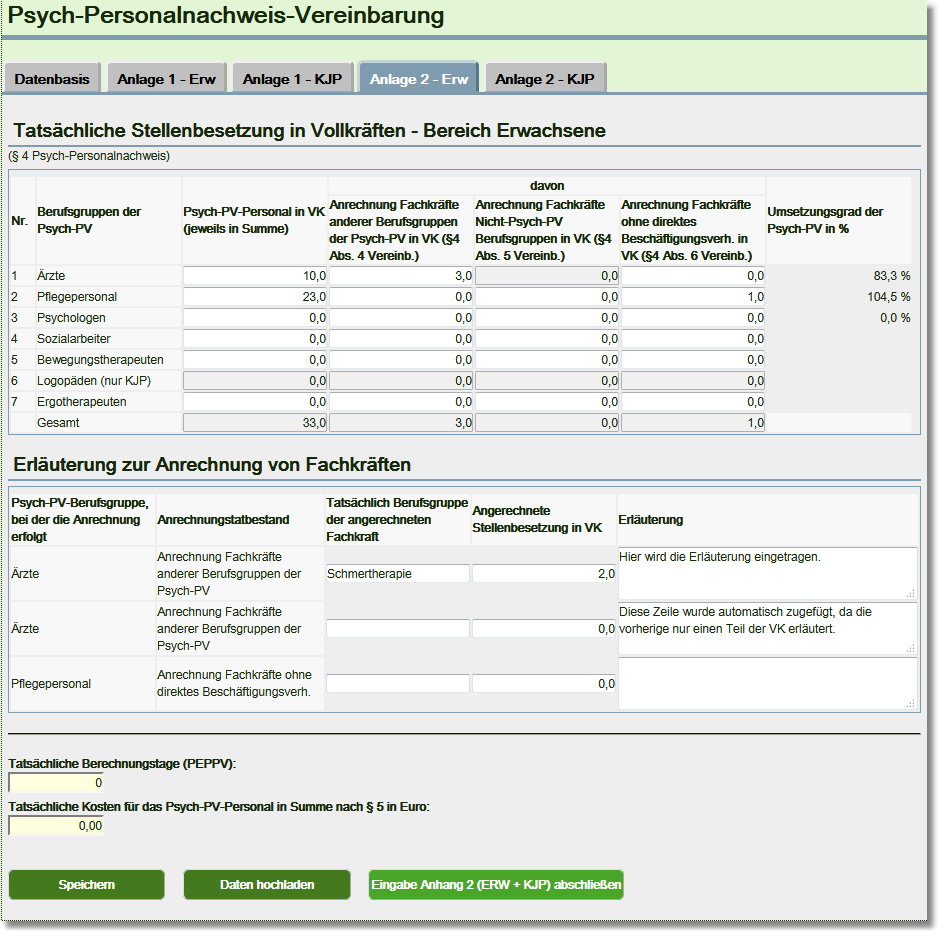
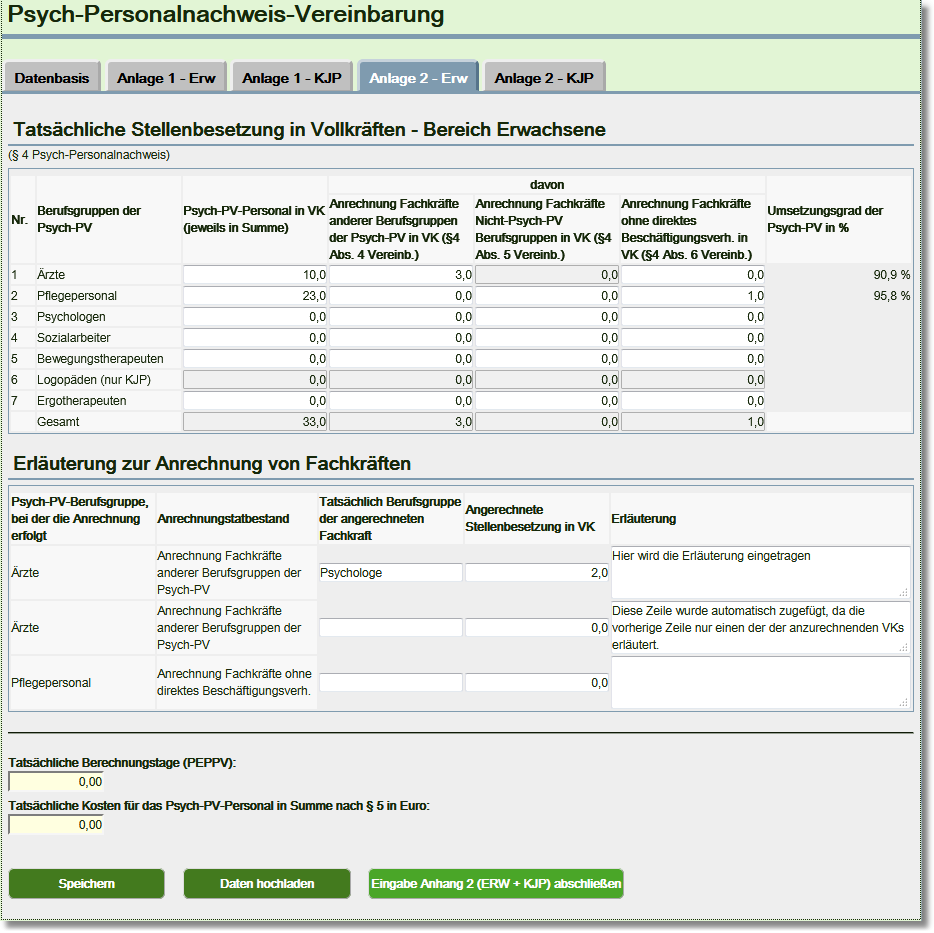
psychStaff refinement

diff --git a/DataPortal/src/main/java/org/inek/dataportal/feature/psychstaff/pdf/PdfBuilder.java b/DataPortal/src/main/java/org/inek/dataportal/feature/psychstaff/pdf/PdfBuilder.java
@@ -90,7 +90,7 @@ public class PdfBuilder extends PdfPageEventHelper implements Serializable {
             "Anrechnung Fachkräfte anderer Berufsgruppen der Psych-PV in VK (§4 Abs. 4 Vereinb.) ",
             "Anrechnung Fachkräfte Nicht-Psych-PV Berufsgruppen in VK (§4 Abs. 5 Vereinb.) ",
             "Anrechnung Fachkräfte ohne direktes Beschäftigungsverh. in VK (§4 Abs. 6 Vereinb.)",
-            "\nPsych-PV-Personal in VK (jeweils in Summe) ");
+            "\nUmsetzungsgrad der Psych-PV in %");
     private final List<String> header2A2 = Arrays.asList("", "1", "2", "3", "4", "5", "6");
     private final List<String> headerExp = Arrays.asList("Psych-PV-Berufsgruppe, bei der die Anrechnung erfolgt",
             "Anrechnungs-\ntatbestand",
@@ -132,7 +132,7 @@ public class PdfBuilder extends PdfPageEventHelper implements Serializable {
         createMetadata(document);
 
         if ("Anlage 1".equalsIgnoreCase(_editPsyStaff.getActiveTopic().getTitle().substring(0, 8))) {
-            createPageForAnlage1(document, writer);
+            createPageForApx1(document, writer);
         } else {
             createPageForAnlage2(document, writer);
         }
@@ -161,14 +161,18 @@ public class PdfBuilder extends PdfPageEventHelper implements Serializable {
     }
     //</editor-fold>
 
-    //<editor-fold defaultstate="collapsed" desc="createPageForAnlage1">
-    public void createPageForAnlage1(Document document, PdfWriter writer) throws DocumentException, IOException, NoSuchAlgorithmException {
+    //<editor-fold defaultstate="collapsed" desc="createPageForApx1">
+    public void createPageForApx1(Document document, PdfWriter writer) throws DocumentException, IOException, NoSuchAlgorithmException {
+        addLogo(document,
+                "Vereinbarte Stellenbesetzung in Vollkräften \nBereich Erwachsene",
+                anlage1,
+                _editPsyStaff.getStaffProof().getSignatureAgreement());
+        
         if (_editPsyStaff.getStaffProof().isForAdults()) {
-            createPageForAdultAn1(document);
-            System.out.println("writer.getPageNumber():----" + document.getPageNumber());
+            createPageForApx1(document, PsychType.Adults);
         }
         if (_editPsyStaff.getStaffProof().isForKids()) {
-            createPageForKidsAn1(document);
+            createPageForApx1(document, PsychType.Kids);
         }
         addNote(document, infoText1, 50, 0);
         addNote(document, infoText2, 0, 20);
@@ -206,20 +210,24 @@ public class PdfBuilder extends PdfPageEventHelper implements Serializable {
     //</editor-fold>
 
     //<editor-fold defaultstate="collapsed" desc="createPageForKidsAn1">
-    private void createPageForKidsAn1(Document document) throws DocumentException, NoSuchAlgorithmException, IOException {
+    private void createPageForApx1(Document document, PsychType psychType) throws DocumentException, NoSuchAlgorithmException, IOException {
+        String header = psychType == PsychType.Adults 
+                ? "Bereich Erwachsene"
+                : "Bereich Kinder und Jugendliche";
+        int agreedDays = psychType == PsychType.Adults 
+                ? _editPsyStaff.getStaffProof().getAdultsAgreedDays()
+                : _editPsyStaff.getStaffProof().getKidsAgreedDays();
+        document.add(new Paragraph(header, FONT_TITLE));
+        PdfPTable pdfTable = new PdfPTable(6);
+        pdfTable.setWidthPercentage(100);
+        pdfTable.setWidths(new int[]{3, 1, 3, 3, 3, 3});
+        pdfTable.getDefaultCell().setBackgroundColor(BaseColor.LIGHT_GRAY);
+        loadDataForApx1(pdfTable, psychType);
+        pdfTable.setSpacingBefore(10);
+        pdfTable.setSpacingAfter(10);
+        document.add(pdfTable);
 
-        document.add(new Paragraph("Bereich Kinder und Jugendliche", FONT_TITLE));
-        PdfPTable tb_JK = new PdfPTable(6);
-        tb_JK.setWidthPercentage(100);
-        tb_JK.setWidths(new int[]{3, 1, 3, 3, 3, 3});
-        tb_JK.getDefaultCell().setBackgroundColor(BaseColor.LIGHT_GRAY);
-        loadDataForAnlage1JK(tb_JK);
-        tb_JK.setSpacingBefore(10);
-        tb_JK.setSpacingAfter(10);
-        document.add(tb_JK);
-
-        Paragraph p = new Paragraph("Vereinbarte Berechnungstage: "
-                + String.valueOf(_editPsyStaff.getStaffProof().getKidsAgreedDays()), SMALLBOLD);
+        Paragraph p = new Paragraph("Vereinbarte Berechnungstage: " + agreedDays, SMALLBOLD);
         p.setSpacingAfter(30);
         document.add(p);
     }
@@ -245,7 +253,7 @@ public class PdfBuilder extends PdfPageEventHelper implements Serializable {
         tb_exp.setWidths(new int[]{4, 4, 3, 3, 6});
         tb_exp.getDefaultCell().setBackgroundColor(BaseColor.LIGHT_GRAY);
 
-        loadDataForAnlage2(tb_JK);
+        loadDataForAnlage2(tb_JK, PsychType.Kids);
         tb_JK.setSpacingBefore(10);
         tb_JK.setSpacingAfter(10);
         document.add(tb_JK);
@@ -263,37 +271,6 @@ public class PdfBuilder extends PdfPageEventHelper implements Serializable {
                 + String.valueOf(_editPsyStaff.getStaffProof().getKidsEffectiveCosts()), SMALLBOLD);
         p.setSpacingAfter(10);
         document.add(p);
-    }
-    //</editor-fold>
-
-    //<editor-fold defaultstate="collapsed" desc="createPageForAdultAn1">
-    private void createPageForAdultAn1(Document document) throws DocumentException, IOException, NoSuchAlgorithmException {
-
-        addLogo(document,
-                "Vereinbarte Stellenbesetzung in Vollkräften \nBereich Erwachsene",
-                anlage1,
-                _editPsyStaff.getStaffProof().getSignatureAgreement());
-        
-        document.add(new Paragraph("Bereich Erwachsene", FONT_TITLE));
-        PdfPTable tb = new PdfPTable(6);
-        tb.setWidthPercentage(100);
-        tb.setWidths(new int[]{3, 1, 3, 3, 3, 3});
-
-        tb.getDefaultCell().setBackgroundColor(BaseColor.LIGHT_GRAY);
-        loadDataForAnlage1Ad(tb);
-        tb.setSpacingBefore(10);
-        tb.setSpacingAfter(10);
-        document.add(tb);
-
-        Paragraph p = new Paragraph("Vereinbarte Berechnungstage: "
-                + String.valueOf(_editPsyStaff.getStaffProof().getAdultsAgreedDays()), SMALLBOLD);
-        p.setSpacingAfter(30);
-        document.add(p);
-
-//        addNote(document, infoText1, 0);
-//        addNote(document, infoText2, 20);
-//        addInfoText(document, infoText3, 30);
-//        addSignaturArea(document);
     }
     //</editor-fold>
 
@@ -315,7 +292,7 @@ public class PdfBuilder extends PdfPageEventHelper implements Serializable {
         tb_exp.setWidthPercentage(100);
         tb_exp.getDefaultCell().setBackgroundColor(BaseColor.LIGHT_GRAY);
 
-        loadDataForAnlage2(tb);
+        loadDataForAnlage2(tb, PsychType.Adults);
         tb.setSpacingBefore(10);
         tb.setSpacingAfter(10);
         document.add(tb);
@@ -337,14 +314,13 @@ public class PdfBuilder extends PdfPageEventHelper implements Serializable {
     }
     //</editor-fold>
 
-    //<editor-fold defaultstate="collapsed" desc="loadDataForAnlage1Ad">
-    private void loadDataForAnlage1Ad(PdfPTable tb) {
+    //<editor-fold defaultstate="collapsed" desc="loadDataForApx1">
+    private void loadDataForApx1(PdfPTable tb, PsychType psychType) {
 
-        //PsychType psychType = ("Anlage 1 - Erw").equalsIgnoreCase(_editPsyStaff.getActiveTopic().getTitle()) ? PsychType.Adults : PsychType.Kids;
         int index = 1;
         addHeader(tb, header1A1);
         addHeader(tb, header2A1);
-        for (StaffProofAgreed staffProofAgreed : _editPsyStaff.getStaffProof().getStaffProofsAgreed(PsychType.Adults)) {
+        for (StaffProofAgreed staffProofAgreed : _editPsyStaff.getStaffProof().getStaffProofsAgreed(psychType)) {
             addRow(tb, String.valueOf(index), staffProofAgreed);
             index++;
         }
@@ -357,34 +333,11 @@ public class PdfBuilder extends PdfPageEventHelper implements Serializable {
                 SMALLBOLD, Element.ALIGN_RIGHT, BaseColor.LIGHT_GRAY);
         addCell(tb, "", SMALLBOLD, Element.ALIGN_RIGHT, BaseColor.LIGHT_GRAY);
     }
-//    </editor-fold>
-
-    //<editor-fold defaultstate="collapsed" desc="loadDataForAnlage1Ad">
-    private void loadDataForAnlage1JK(PdfPTable tb) {
-
-        //PsychType psychType = ("Anlage 1 - Erw").equalsIgnoreCase(_editPsyStaff.getActiveTopic().getTitle()) ? PsychType.Adults : PsychType.Kids;
-        int index = 1;
-        addHeader(tb, header1A1);
-        addHeader(tb, header2A1);
-        for (StaffProofAgreed staffProofAgreed : _editPsyStaff.getStaffProof().getStaffProofsAgreed(PsychType.Adults)) {
-            addRow(tb, String.valueOf(index), staffProofAgreed);
-            index++;
-        }
-        addCell(tb, "", SMALLBOLD, Element.ALIGN_LEFT, BaseColor.LIGHT_GRAY);
-        addCell(tb, "8", SMALLBOLD, Element.ALIGN_CENTER, BaseColor.LIGHT_GRAY);
-        addCell(tb, "Gesamt", SMALLBOLD, Element.ALIGN_LEFT, BaseColor.LIGHT_GRAY);
-        addCell(tb, _editPsyStaff.sumAgreedStaffingComplete(PsychType.Kids).replace(",", "."),
-                SMALLBOLD, Element.ALIGN_RIGHT, BaseColor.LIGHT_GRAY);
-        addCell(tb, _editPsyStaff.sumAgreedStaffingBudget(PsychType.Kids).replace(",", "."),
-                SMALLBOLD, Element.ALIGN_RIGHT, BaseColor.LIGHT_GRAY);
-        addCell(tb, "", SMALLBOLD, Element.ALIGN_RIGHT, BaseColor.LIGHT_GRAY);
-    }
-//    </editor-fold>
+    // </editor-fold>
 
     //<editor-fold defaultstate="collapsed" desc="loadDataForAnlage2">
-    private void loadDataForAnlage2(PdfPTable tb) {
+    private void loadDataForAnlage2(PdfPTable tb, PsychType psychType) {
 
-        PsychType psychType = ("Anlage 2 - Erw").equalsIgnoreCase(_editPsyStaff.getActiveTopic().getTitle()) ? PsychType.Adults : PsychType.Kids;
         int index = 1;
         addHeader0(tb, header0A2);
         addHeader(tb, header1A2);
@@ -510,7 +463,7 @@ public class PdfBuilder extends PdfPageEventHelper implements Serializable {
         PdfPCell cell;
         StaffProof staffProof = _editPsyStaff.getStaffProof();
         PdfPTable tb_Hosp = new PdfPTable(2);
-        tb_Hosp.setWidths(new int[]{1, 1});
+        tb_Hosp.setWidths(new int[]{2, 3});
         tb_Hosp.getDefaultCell().setBorder(Rectangle.NO_BORDER);
         cell = new PdfPCell(new Paragraph("IK: " + staffProof.getIk(), NORMALBOLD));
         cell.setBorder(PdfPCell.NO_BORDER);
